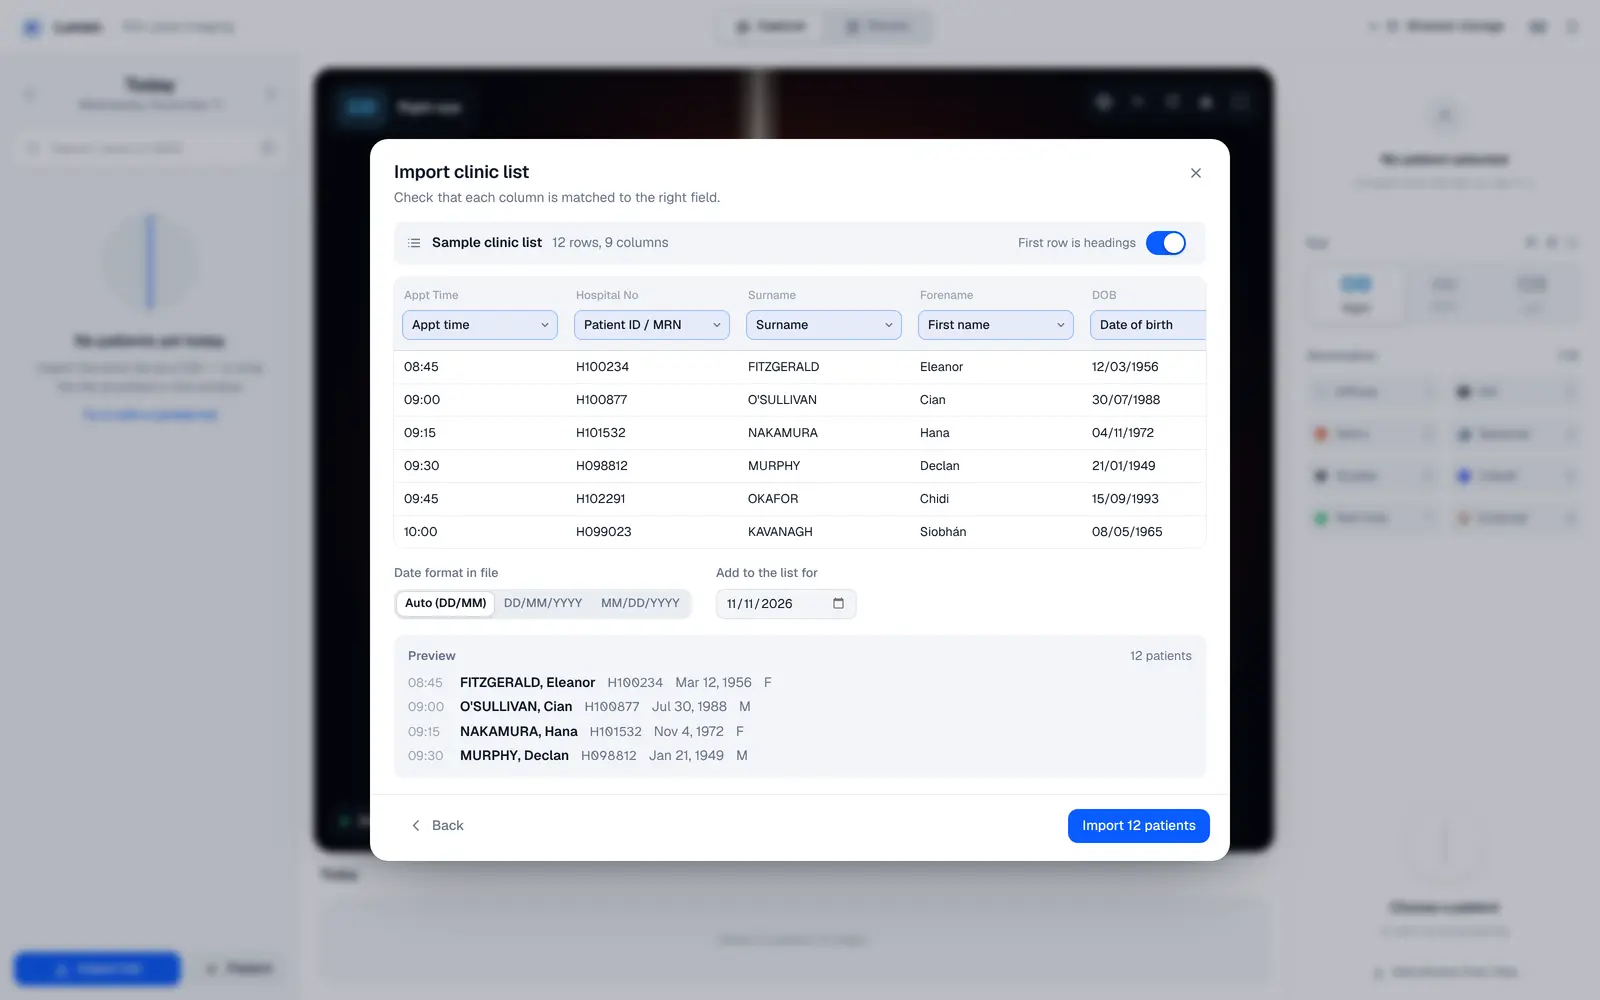
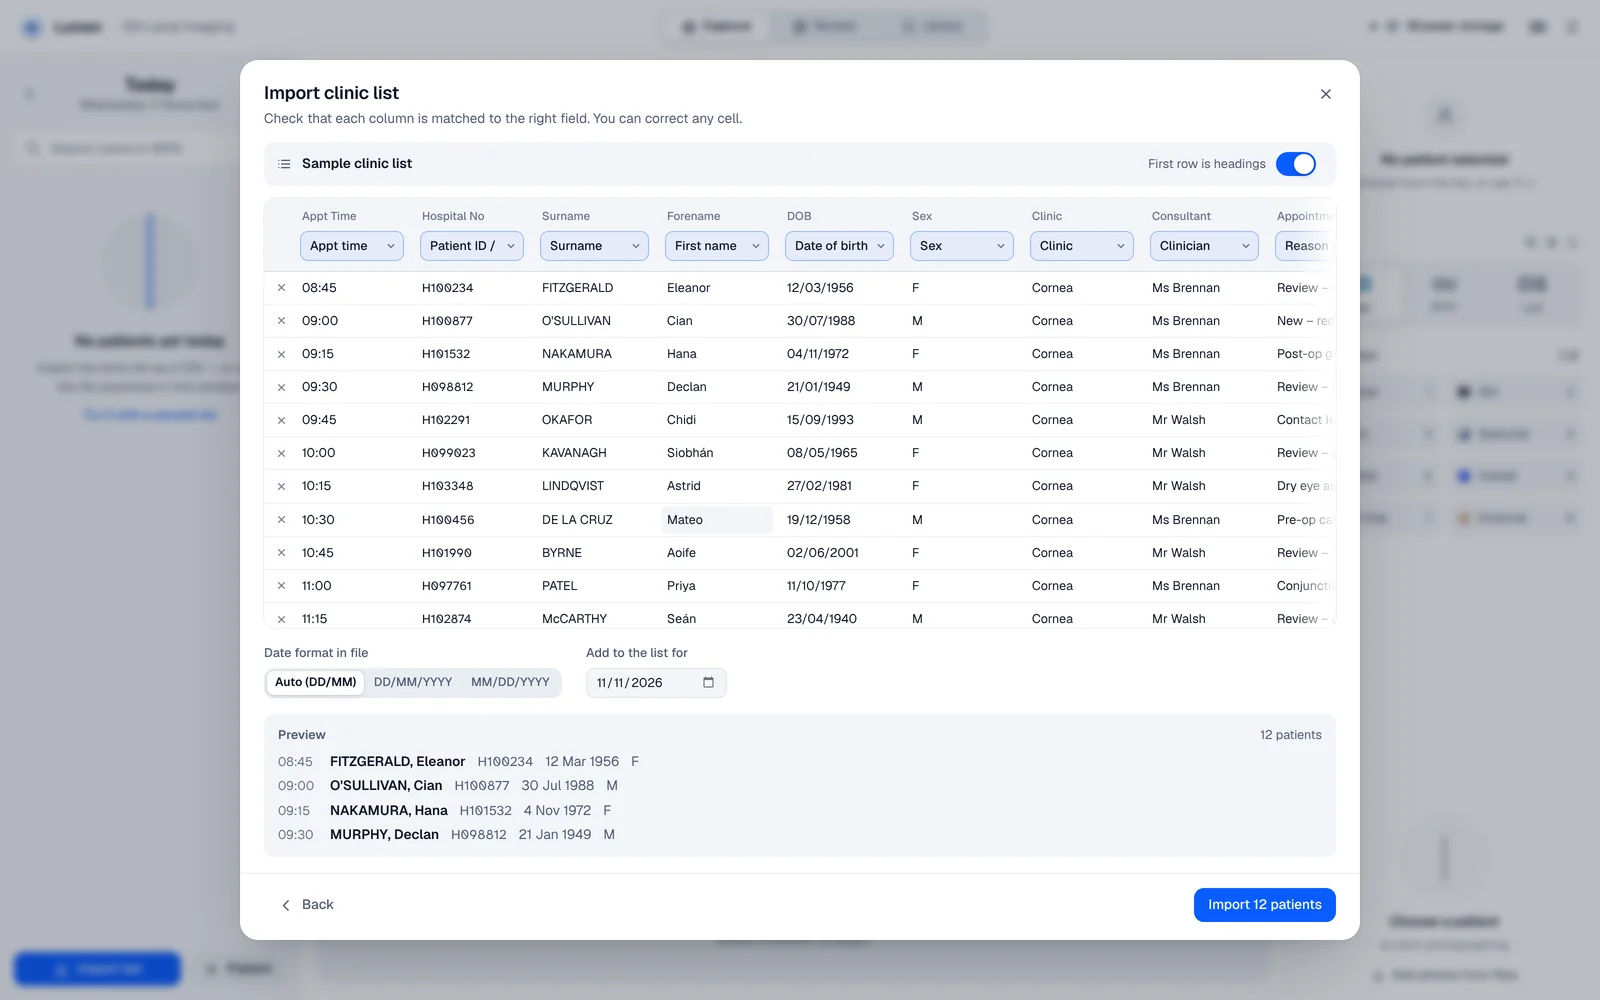
Integrate the helper and import work; pin the patient's name; refresh screenshots
- A late photo inherits the labels of an earlier Lumen shutter press for
  30 s at most (was 90 s), so a camera-button photo cannot be filed to a
  patient who has since left the screen.
- On a smaller screen with the Canon panel open, the patient's name and
  hospital number stay in view while the controls beneath them scroll.
- The import sheet gives its room to the table on short screens.
- README screenshots regenerated from this build.

Claude-Session: https://claude.ai/code/session_01EiTsByBZujoc6XkFkRsbiB

diff --git a/src/styles/app.css b/src/styles/app.css
@@ -2981,6 +2981,31 @@ button.cam-preset:hover {
     display: none;
   }
 }
+/* When the controls have to scroll (a smaller screen with the Canon panel showing), the patient's
+   name and number stay in view above them: you always see whose photograph is being taken. */
+@media (max-height: 1040px) {
+  .pcard:not(.pcard-empty) {
+    display: contents;
+  }
+  /* The header reaches up through the panel's own top padding, so nothing shows above it once stuck. */
+  .pcard-top {
+    position: sticky;
+    top: -18px;
+    z-index: 2;
+    margin: -18px -2px -8px;
+    padding: 18px 4px 10px;
+    background: var(--surface);
+    box-shadow: 0 1px 0 var(--hairline);
+  }
+  .pcard-grid {
+    border-top: 0;
+    padding-top: 6px;
+  }
+  .pcard-grid,
+  .pcard-history {
+    margin-top: -8px;
+  }
+}
 @media (max-height: 860px) {
   .insp-scroll {
     gap: 10px;
@@ -3023,13 +3048,42 @@ button.cam-preset:hover {
   .pcard-grid {
     gap: 6px 12px;
     padding-top: 8px;
+    margin-top: 0;
+  }
+  .pcard-history {
+    margin-top: 0;
   }
   .cam-field {
     height: 44px;
   }
 }
+/* Short screens: the import sheet gives its room to the table (every cell there is what will be saved). */
+@media (max-height: 820px) {
+  .import-preview .preview-list {
+    display: none;
+  }
+  .import-preview {
+    margin-top: 10px;
+    margin-bottom: 10px;
+    padding: 8px 14px;
+  }
+  .import-preview-head {
+    margin-bottom: 0;
+  }
+  .import-preview-head + p {
+    margin-top: 6px;
+  }
+  .map-table-wrap {
+    max-height: clamp(204px, calc(100vh - 430px), 460px);
+  }
+}
 @media (max-height: 740px) {
   .insp-scroll {
+    padding-top: 12px;
+  }
+  .pcard-top {
+    top: -12px;
+    margin-top: -12px;
     padding-top: 12px;
   }
   .eye-opt {

diff --git a/helper/src/edsdk/camera.js b/helper/src/edsdk/camera.js
@@ -37,8 +37,10 @@ const CAPTURE_TIMEOUT_MS = 20_000;
 const MATCH_WINDOW_MS = 8000;
 // Later than that (a self-timer, a long exposure) it still does, for this long, but only while it is the
 // first thing the camera has produced since: once a photo from the camera's own button has come in
-// between, the order can no longer be trusted. This matches how long Lumen keeps a failed capture's labels.
-const LATE_MATCH_MS = 90_000;
+// between, the order can no longer be trusted. Kept short on purpose: the photo is filed with the
+// patient and eye selected at that earlier press, and half a minute on, a new photo is far more
+// likely to be a fresh press of the camera's own button for whoever is on screen now.
+const LATE_MATCH_MS = 30_000;
 // The two files of a RAW+JPEG shot arrive close together; after this long a RAW on its own means RAW only.
 const JPEG_AFTER_RAW_MS = 3000;
 // A new JPEG on the memory card that the camera has not offered to the computer by now is fetched from the card.
